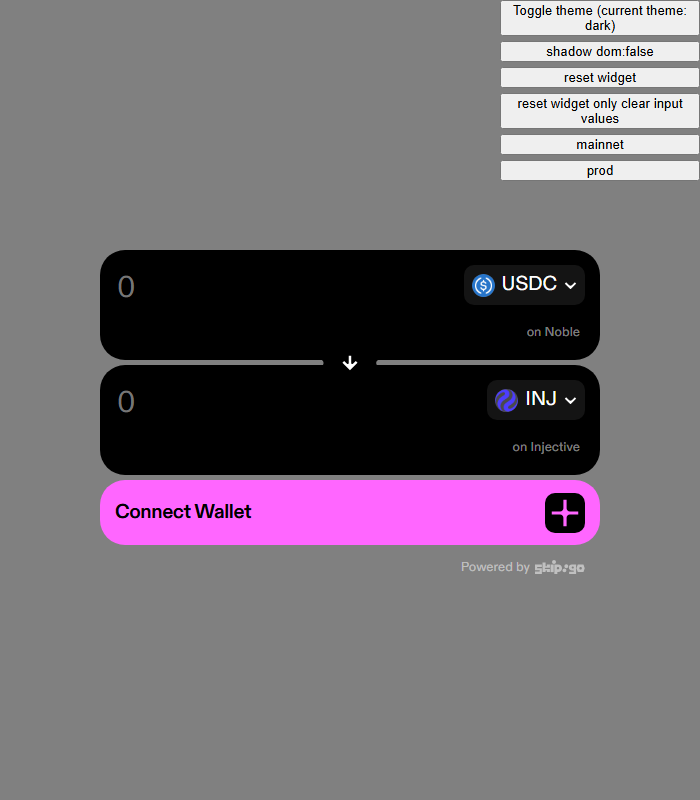
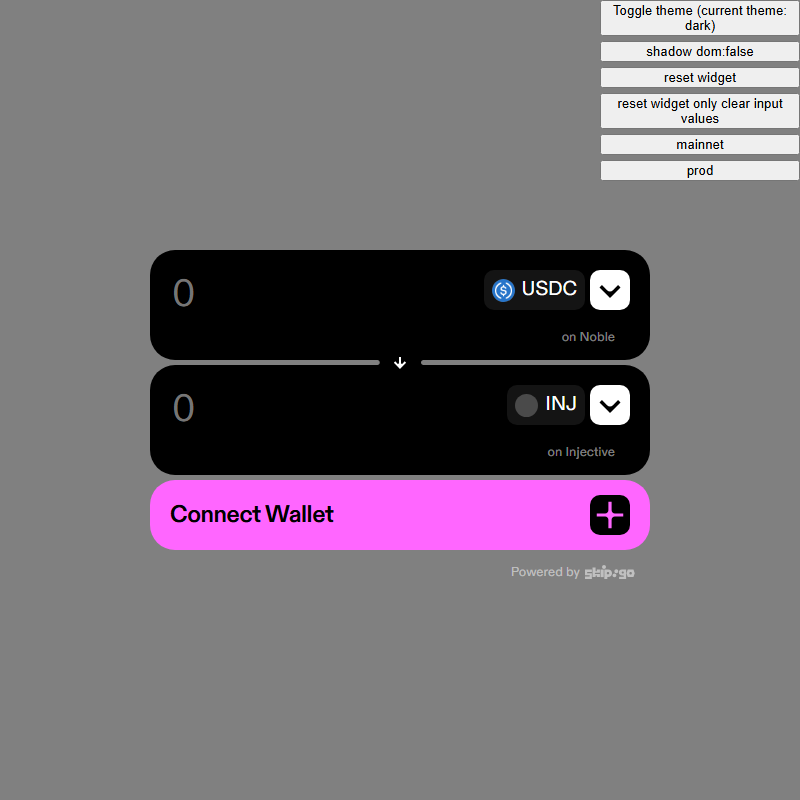
test

Changed region(s): [[0.12, 0.3125, 0.87, 0.7188], [0.69, 0.0, 0.99, 0.25], [0.48, 0.4375, 0.51, 0.4688]]

diff --git a/packages/widget/__tests__/Keplr.test.tsx b/packages/widget/__tests__/Keplr.test.tsx
@@ -31,11 +31,11 @@ test.describe("Widget tests", () => {
     await page.getByText("Connect Wallet").click();
     await page.getByText("Keplr").click();
 
-    // await page.waitForTimeout(5_000);
+    await page.waitForTimeout(5000);
 
-    // await page.screenshot({
-    //   path: "__tests__/Widget/connect-keplr.png",
-    // });
+    await page.screenshot({
+      path: "__tests__/Widget/connect-keplr.png",
+    });
 
     // await fillAmount(page, "5");
 

diff --git a/packages/widget/__tests__/setup/utils.ts b/packages/widget/__tests__/setup/utils.ts
@@ -33,7 +33,7 @@ export async function initKeplr() {
 export async function expectPageLoaded(page: Page) {
   page.setViewportSize({
     height: 800,
-    width: 700,
+    width: 800,
   });
   await page.goto(process.env.PLAYWRIGHT_TEST_BASE_URL || "http://localhost:5173/");
 }
